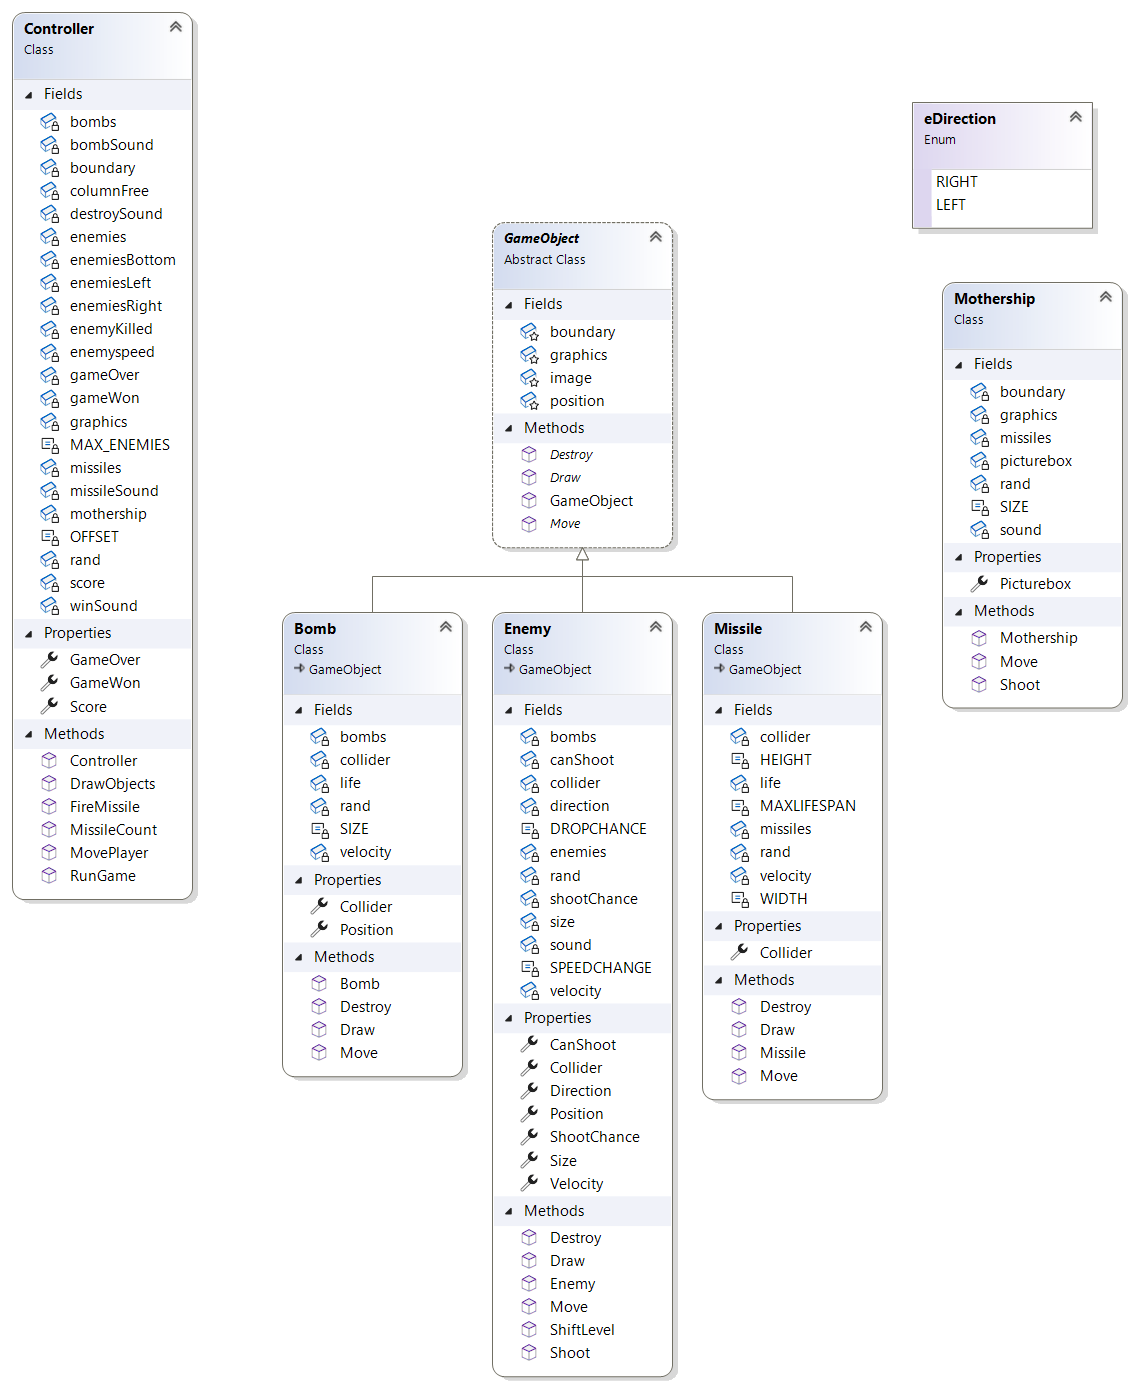
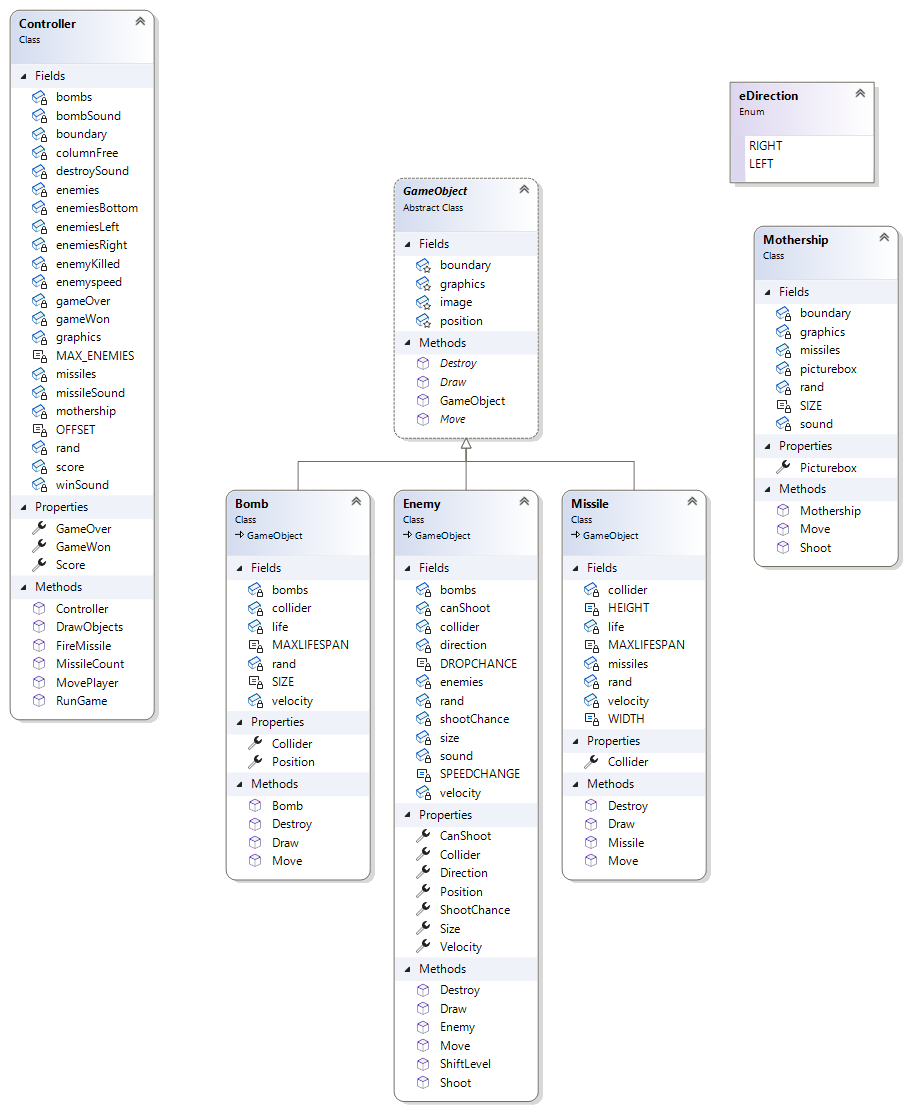
Updated the bomb to have the correct constants

diff --git a/SpaceInvaders/Bomb.cs b/SpaceInvaders/Bomb.cs
@@ -10,6 +10,8 @@ namespace SpaceInvaders
     public class Bomb : GameObject
     {
         private const int SIZE = 16;
+        private const int MAXLIFESPAN = 70;
+
         private int velocity;
         private List<Bomb> bombs;
         private Rectangle collider;
@@ -28,7 +30,7 @@ namespace SpaceInvaders
             this.bombs = bombs;
             collider = new Rectangle(position.X, position.Y, SIZE, SIZE);
             this.rand = rand;
-            life = rand.Next(1, 70);
+            life = rand.Next(1, MAXLIFESPAN);
         }
 
         public Point Position { get => position; set => position = value; }
